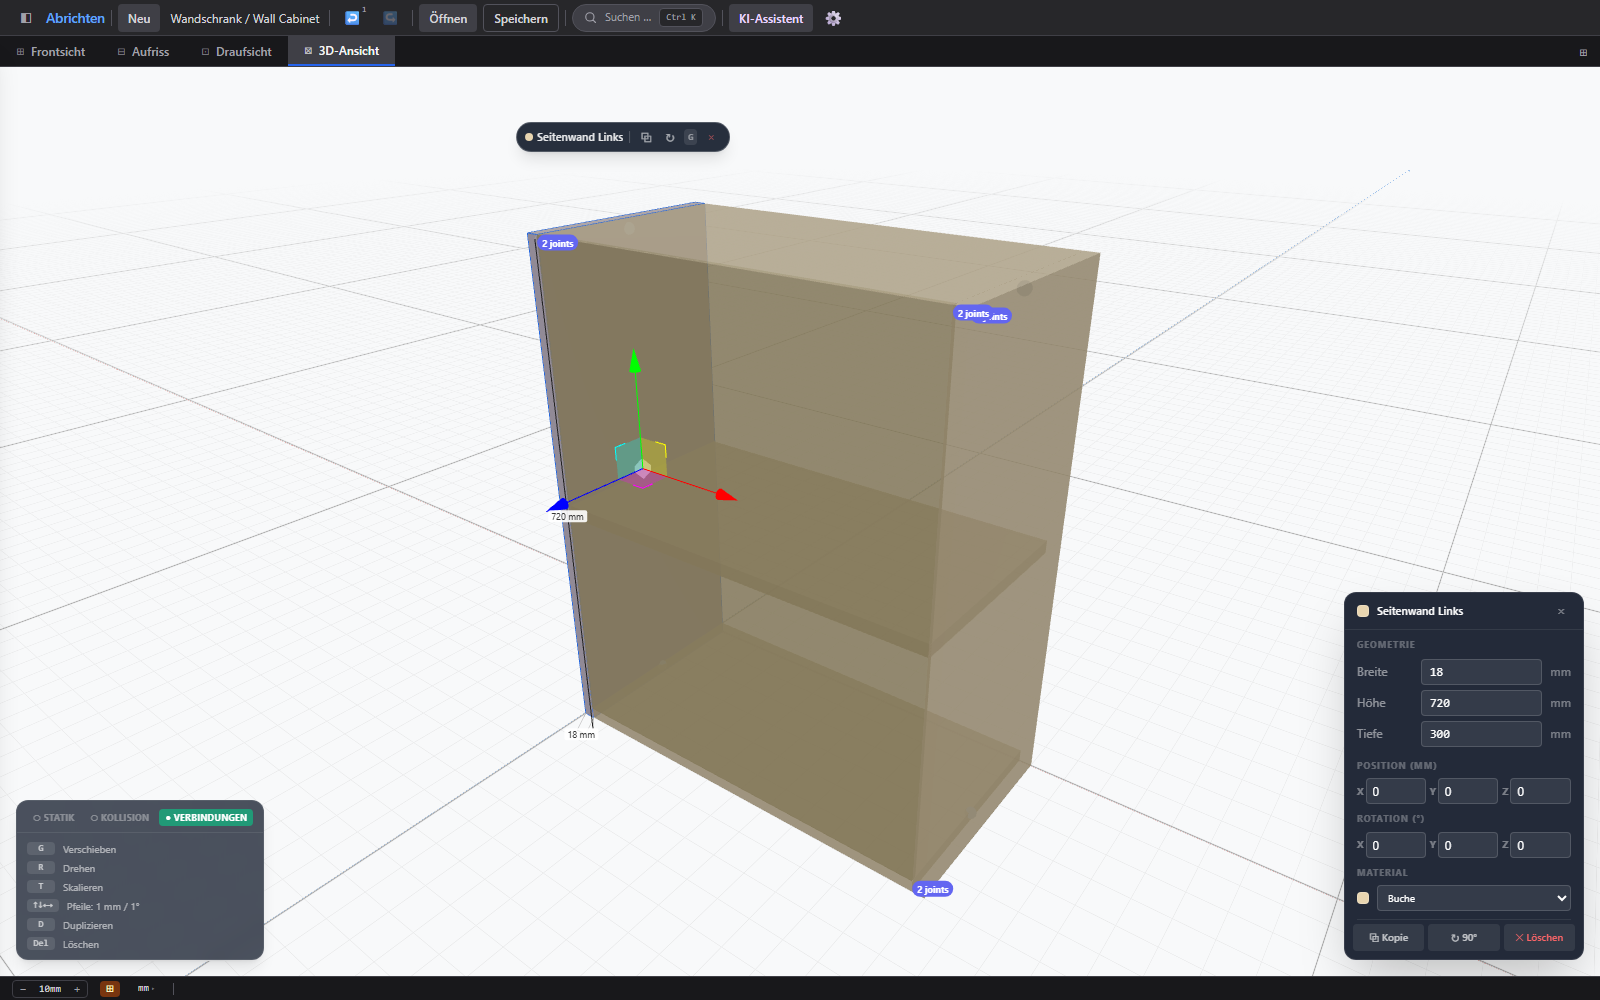
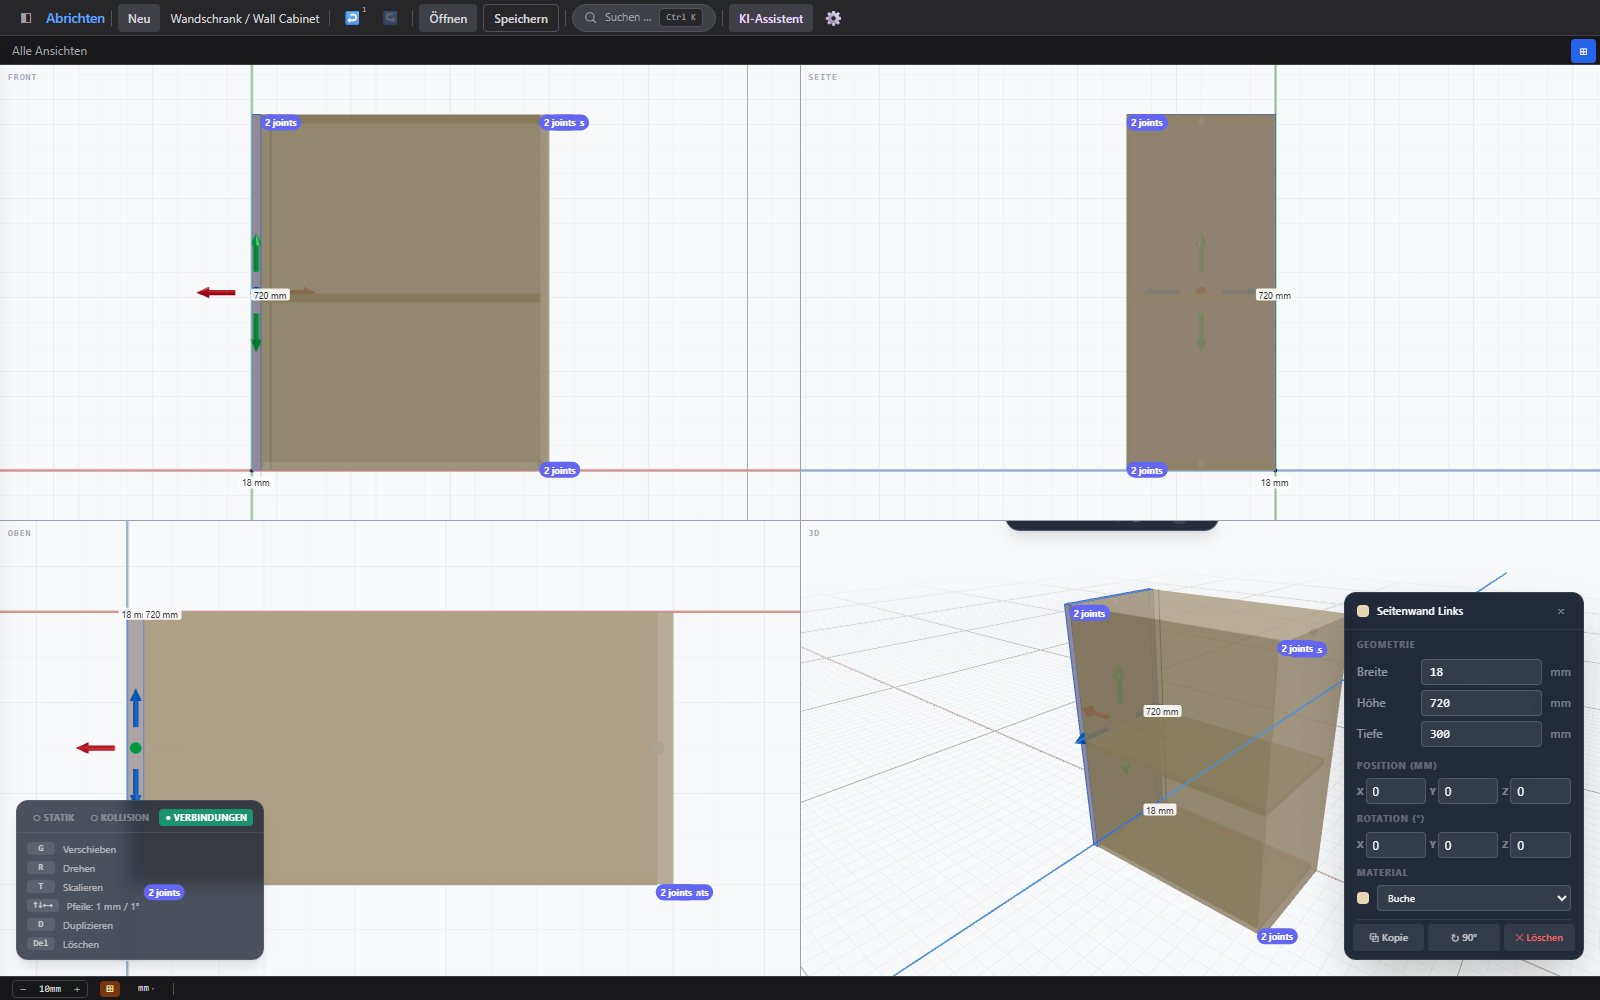
docs: screenshot shows quad view instead of 3D only

diff --git a/README.md b/README.md
@@ -2,7 +2,7 @@
 
 Desktop application for planning furniture, shelving, and kitchen projects in wood and stone. Combines a full-screen 3D canvas with glass-card overlays, context-aware shortcuts, and AI-assisted sketch analysis.
 
-![Abrichten — 3D view with the sample wall cabinet](docs/screenshot.png)
+![Abrichten — quad view (front, side, top, 3D) with the sample wall cabinet](docs/screenshot.png)
 
 *(regenerate with `npm run build && npm run screenshot`)*
 
